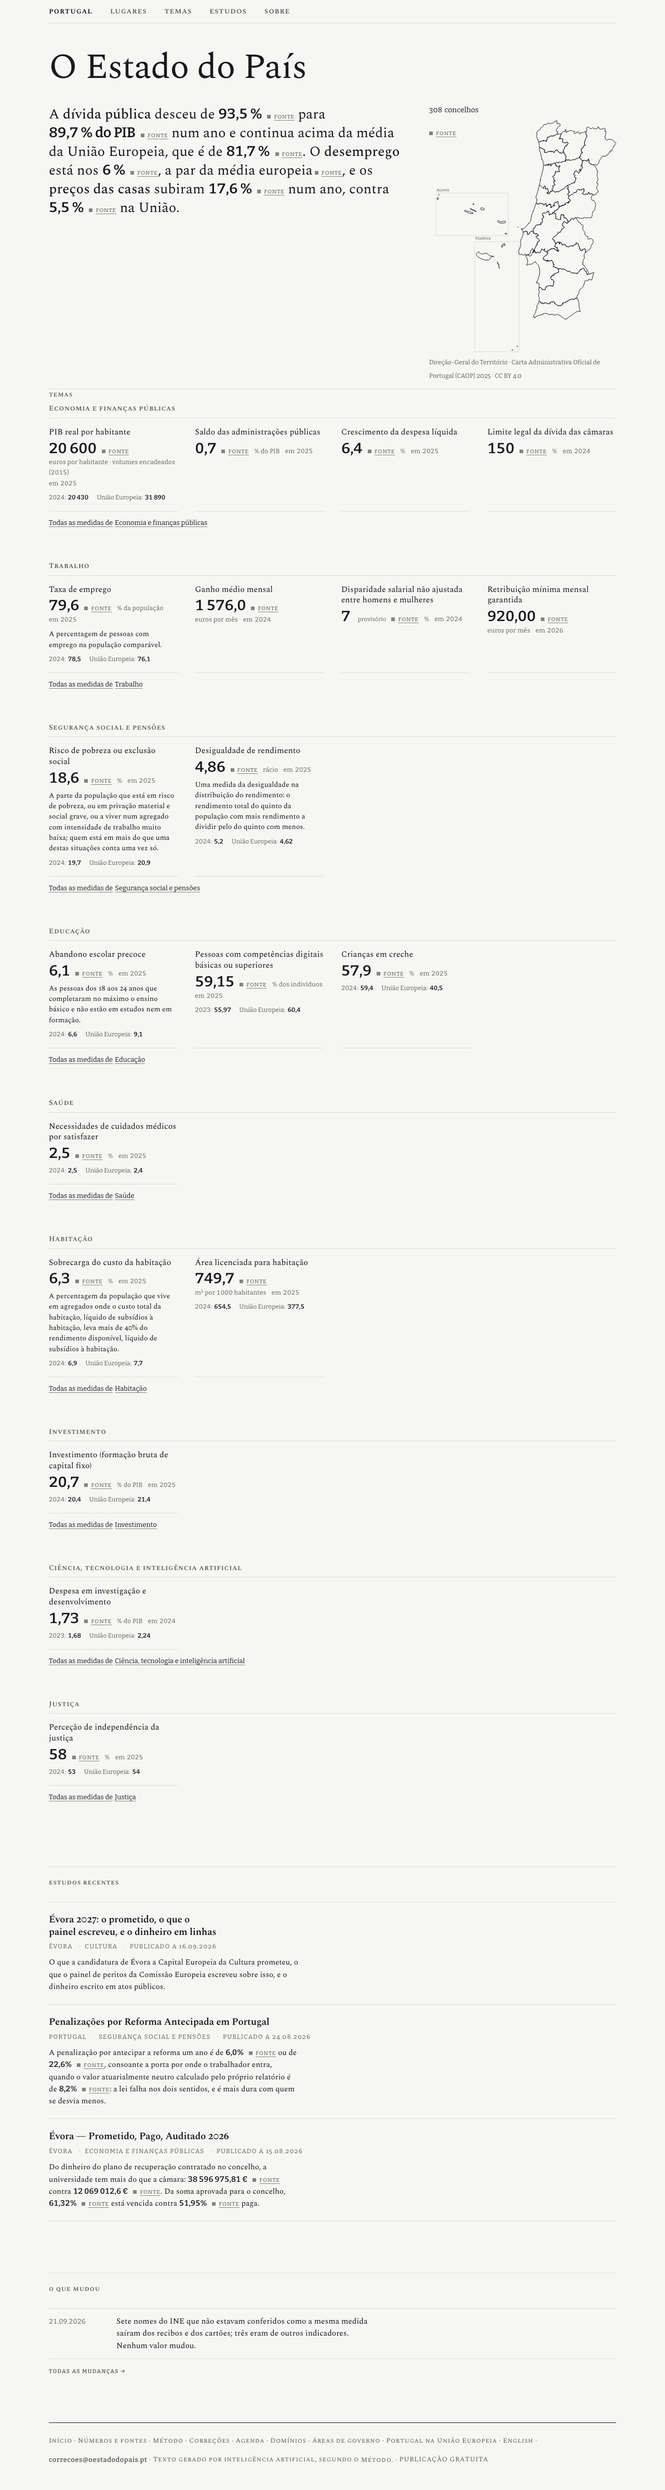
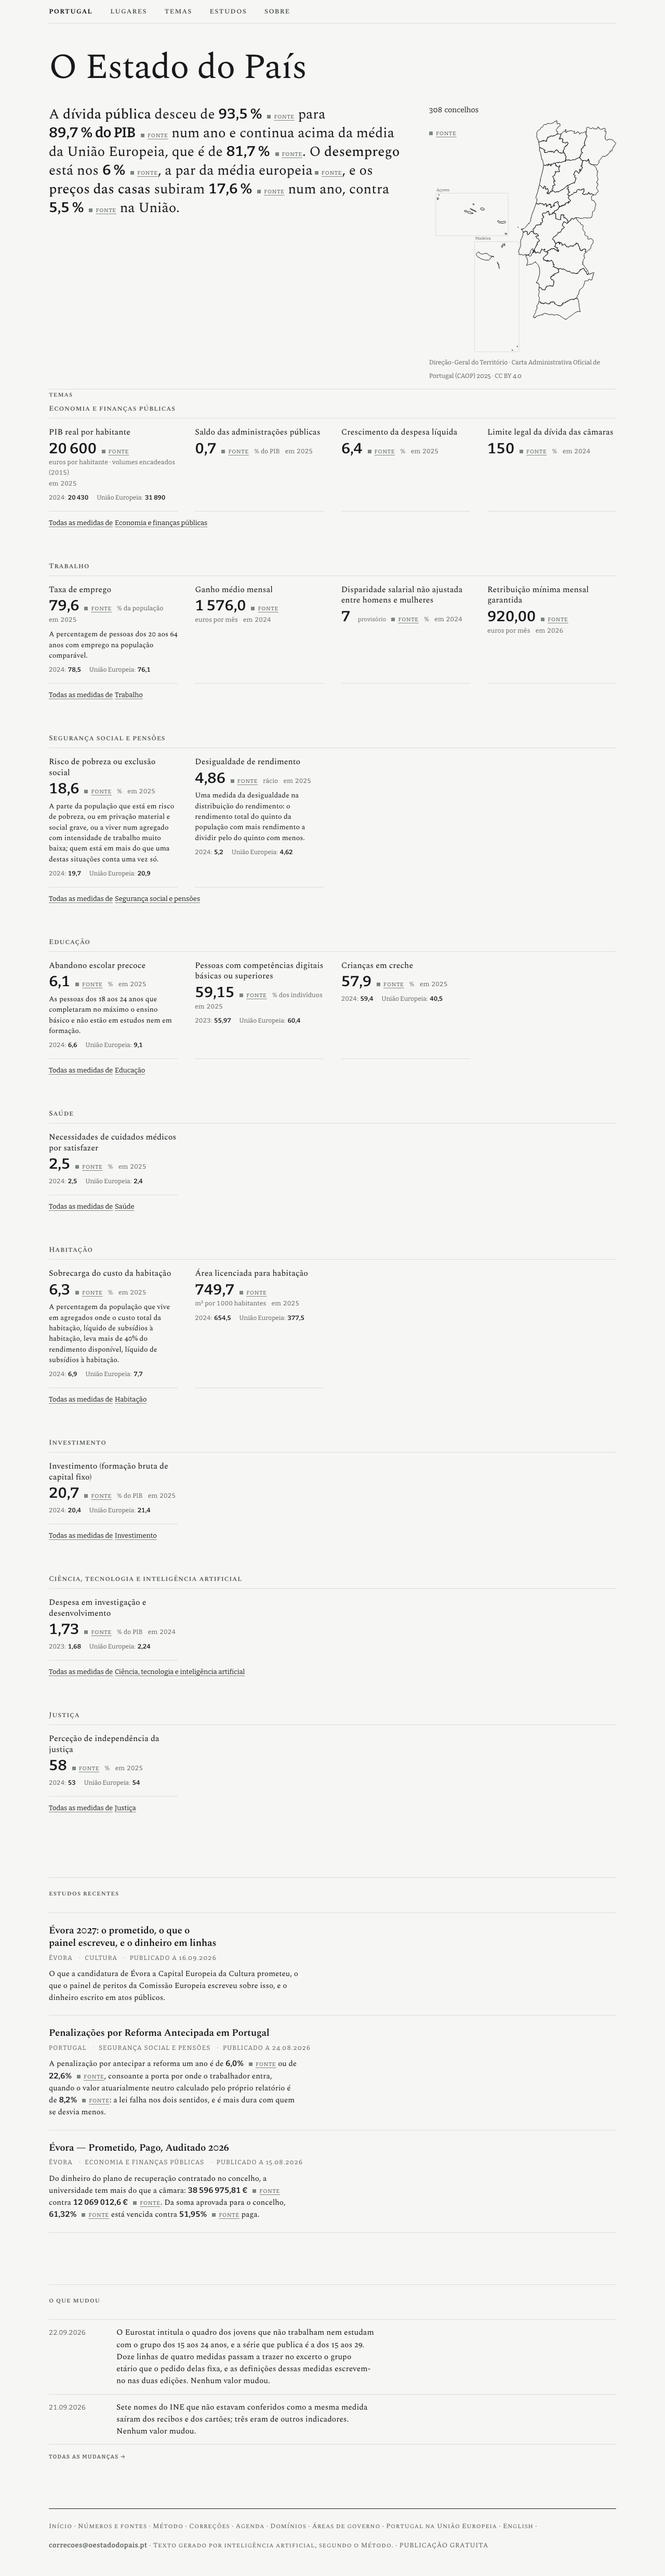
B1c: o relatório da marca em todas as páginas, o rebase e as capturas refeitas
A secção nova diz a decisão, o que mudou no componente e a medida que corrige a
expectativa: são 7 páginas e 11 marcas, todas inglesas, porque a marca é da
edição e não da cadeia, e sete das catorze páginas que rendem as duas cadeias
rendem a edição portuguesa, que está confirmada. A catraca L1 ficou em 2 271
antes e depois. O rebase sobre o `main` com a I129 teve um conflito, no rasto
da revisão do inventário, resolvido ficando com os dois lados por ordem de
data; a página do país passa a duas linhas e o registo a trinta e uma. As oito
capturas foram refeitas na cabeça rebaseada.

Claude-Session: https://claude.ai/code/session_016dojDrtR3Thizhpckp9ENd

diff --git a/design/especime-v3/medicoes/b1c-2026-09-22/LEIA-ME.md b/design/especime-v3/medicoes/b1c-2026-09-22/LEIA-ME.md
@@ -25,10 +25,10 @@ A medição de partida foi feita sobre `main` em `83e9df2d`, com `npm run build`
 | # | O que | A medida |
 | --- | --- | --- |
 | 1 | O âmbito das três listas numa função só, `src/lib/mudancas.mjs` | as três listas contadas em `dist/`, na tabela abaixo |
-| 2 | O teto de oito e a porta «Todas as mudanças» / «All changes» na página do país e nas de lugar | 1 linha na página do país e 8 em Évora, nas duas edições; uma porta por página |
+| 2 | O teto de oito e a porta «Todas as mudanças» / «All changes» na página do país e nas de lugar | 2 linhas na página do país e 8 em Évora, nas duas edições; uma porta por página |
 | 3 | O registo em `/correcoes` e `/en/corrections`, por data, com o lugar de cada linha e a sua porta | 30 linhas por edição, 30 portas de lugar; a norma, o canal e as revisões de proveniência intactos |
 | 4 | A definição do marcador uma vez por página | 1 por página, antes e depois |
-| 5 | As três células novas do `check:pais` com plantas | `plantas-b1c.json`, 24 provas |
+| 5 | As três células novas do `check:pais` com plantas | `plantas-b1c.json`, 26 provas, mais a da catraca L1 em `plantas-portoes-lugar-marcador-de-titulo.json` |
 | 6 | O inventário, as listas fechadas do `check:voz` e o mapa do repositório | `check:voz` a 0 |
 | 7 | Relatório, capturas e os três portões | este ficheiro, `capturas-b1c.json`, os `.codigo` |
 
@@ -39,6 +39,8 @@ A medição de partida foi feita sobre `main` em `83e9df2d`, com `npm run build`
 | País (`/`, `/en`) | 30 | 8 (1 mudança do projeto, 7 publicações) | **1** (a mudança do projeto de 21.09) |
 | Évora (`/municipios/evora`, `/en/municipalities/evora`) | 10 | 8 | **8** |
 | Registo (`/correcoes`, `/en/corrections`) | 16 linhas datadas | 30 | **30** (1 mudança do projeto, 13 publicações, 16 correções) |
+
+Depois do rebase sobre o `main` com a I129, que traz uma mudança declarada nova, os números do ramo são **2** na página do país, **8** em Évora e **31** no registo (2 mudanças do projeto, 13 publicações, 16 correções). A última secção diz o resto.
 
 As 16 correções do livro-razão inteiro, as 13 publicações do arquivo e a mudança declarada do projeto estão todas no registo, e a célula A3 fecha a construção se faltar ou sobrar uma. Nenhuma linha foi inventada e nenhuma foi apagada: o que saiu da primeira página está no registo, com a porta para o lugar a que pertence.
 
@@ -94,16 +96,16 @@ Oito, em [capturas/b1c-2026-09-22](../../capturas/b1c-2026-09-22/): a primeira p
 
 | Captura | Altura | Deslocamento lateral | Linhas | Portas de lugar |
 | --- | ---: | ---: | ---: | ---: |
-| `depois-pais-pt-390` | 6 197 px | 0 | 1 | — |
-| `depois-pais-pt-1280` | 4 791 px | 0 | 1 | — |
-| `depois-pais-en-390` | 6 250 px | 0 | 1 | — |
-| `depois-pais-en-1280` | 4 880 px | 0 | 1 | — |
-| `depois-registo-pt-390` | 9 966 px | 0 | 30 | 30 |
-| `depois-registo-pt-1280` | 9 375 px | 0 | 30 | 30 |
-| `depois-registo-en-390` | 10 061 px | 0 | 30 | 30 |
-| `depois-registo-en-1280` | 9 270 px | 0 | 30 | 30 |
+| `depois-pais-pt-390` | 6 411 px | 0 | 2 | — |
+| `depois-pais-pt-1280` | 4 955 px | 0 | 2 | — |
+| `depois-pais-en-390` | 6 465 px | 0 | 2 | — |
+| `depois-pais-en-1280` | 5 023 px | 0 | 2 | — |
+| `depois-registo-pt-390` | 10 028 px | 0 | 31 | 31 |
+| `depois-registo-pt-1280` | 9 537 px | 0 | 31 | 31 |
+| `depois-registo-en-390` | 10 170 px | 0 | 31 | 31 |
+| `depois-registo-en-1280` | 9 432 px | 0 | 31 | 31 |
 
-Zero deslocamentos laterais, nenhum valor ou selo partido, nenhum selo sem `nowrap`, a porta «Todas as mudanças» uma vez em cada página do país, e uma definição do marcador em cada página que tem marcador. As quatro da página do país foram refeitas na passagem da tarde; as quatro do registo são os mesmos bytes, conferidos por sha256 contra o manifesto anterior.
+Zero deslocamentos laterais, nenhum valor ou selo partido, nenhum selo sem `nowrap`, a porta «Todas as mudanças» uma vez em cada página do país, e uma definição do marcador em cada página que tem marcador. As oito foram refeitas na cabeça rebaseada, `59c27b5b`, e é essa que o manifesto nomeia.
 
 ## Os commits
 
@@ -158,6 +160,42 @@ A **A3** passa a conferir, linha a linha do registo, o lugar escrito e a porta d
 `npm run build` inteiro, **código 0**, e com ele o `check:pais` («todas as conferências a 0») e o `check:voz` (verde, 598 linhas vivas todas rendidas, 546 retiradas nenhuma rendida). As **24 plantas** de `tests/pais/pais.mjs`, todas a morder, com as três novas. E o `check:lugar` isolado, **código 0**, porque a marca nova é uma porta para `/a-verificar`: a catraca **L1 ficou em 2 271, o mesmo teto**, e a célula §7.10 da definição do marcador continua verde.
 
 **Os três portões inteiros não correram nesta cabeça**, e é por decisão do lugar de direção: o ramo vai ser rebaseado sobre o `main` depois de aterrar outro bloco, e é ele que os corre na cabeça final.
+
+## A marca em todas as páginas, e o rebase, 22.09.2026
+
+**A decisão do lugar de direção:** um título que o arquivo declara por confirmar leva a marca em todas as páginas onde se rende. Um leitor que a veja numa página e não noutra vê o projeto a dizer duas coisas sobre o mesmo facto.
+
+**O que mudou no componente.** A propriedade explícita saiu: quem chama já não pode esquecer a marca, porque já não é ele que decide. `TituloDeTrabalho` recebe a edição de quem a tem (`edicao=…`) e, de quem só tem a cadeia, resolve-a pela mesma escada que o resto do sítio usa — `edicaoDoTitulo()`, em `src/data/studies.mjs`: a edição da língua da página, e na falta dela a primeira do trabalho. Uma página que liste as duas edições do mesmo trabalho tem duas respostas para a mesma cadeia, e por isso passa a edição.
+
+**A medida, e uma correção à expectativa.** Esperavam-se as 14 páginas que eu tinha contado, mais o registo inglês. São **7 páginas e 11 marcas**, todas inglesas, e é o número certo: as 14 eram as páginas que rendem as duas CADEIAS, e sete delas são páginas portuguesas que rendem a edição PORTUGUESA, que está confirmada. A marca é da edição, não da cadeia.
+
+| Página | Marcas |
+| --- | ---: |
+| `en/studies/index` | 2 |
+| `en/studies/agua-nao-faturada` | 2 |
+| `en/studies/onde-esta-a-agua` | 2 |
+| `en/corrections` | 2 |
+| `en/ledger/agua-nao-faturada-portugal-2024` | 1 |
+| `en/ledger/ciclo-substituicao-condutas` | 1 |
+| `en/areas/ambiente-e-energia` | 1 |
+
+**A catraca L1 não se mexeu: 2 271 antes, 2 271 depois.** O desconto é o mesmo mecanismo que já descontava o marcador da definição conferida de um cartão — a classe `marcador-de-titulo` e o destino exato do marcador — e a planta prova que é ele que segura o teto: tiradas as classes das duas marcas do arquivo inglês, a catraca sobe acima do teto e o `check:lugar` fecha.
+
+**A A4** passou a correr sobre cada elemento que declara a edição que rende, em vez de só sobre o registo: os artigos das três listas de estudos (`[data-estudo][data-estudo-edicao]`) e as linhas de publicação do registo. Mede **56 títulos de edição** por construção, e exige a marca onde o arquivo a declara e em mais lado nenhum. As duas listas fechadas do `check:voz` passam a admitir a cadeia exacta do marcador, que é declarada em `src/data/marcador.mjs` e não é prosa da casa; qualquer outra prosa continua a fechar a construção.
+
+**As plantas novas:** o marcador retirado de uma publicação do registo (**A4**); uma edição que a primeira página rende declarada por confirmar sem a página a ter (**A4**); a marca retirada da lista dos estudos (**A4**); e a classe do desconto tirada às marcas do arquivo inglês (**L1 acima do teto**).
+
+### O rebase
+
+`git rebase main`, sobre `95655124` (o bloco I129). **Um conflito**, em `design/especime-v3/critica/REVISOES-DO-INVENTARIO.md`: os dois lados acrescentam uma secção no fim do ficheiro. Resolvido ficando com os dois, por ordem de data, com a I129 primeiro por ter aterrado primeiro. O `INVENTARIO-FRASES.md` e o `MAPA-DO-REPOSITORIO-para-construtores.md` fundiram-se sozinhos.
+
+**As contagens novas**, medidas em `dist/` nas duas edições: a página do país passa de 1 para **2** linhas, que são as duas mudanças declaradas do projeto (os nomes do INE, de 21.09, e o grupo etário dos jovens NEM, de 22.09); Évora fica nas mesmas **8**; o registo passa de 30 para **31**. A altura da página do país a 1 280 px passa de 4 791 para 4 955 px (en: de 4 880 para 5 023).
+
+### O que se correu nesta passagem, e só isto
+
+`npm run build` inteiro, **código 0**, na cabeça rebaseada (e com ele o `check:pais`, «todas as conferências a 0», e o `check:voz`, verde). As **26 plantas** de `tests/pais/pais.mjs`, todas a morder. O `check:lugar` isolado, **código 0**, com a L1 em 2 271. O `check:cartao --prova`, **código 0**, porque a I129 mexeu na célula K13 e nas figuras. E a planta da L1 em `tests/pais/portoes.mjs`, a morder.
+
+**Os três portões inteiros não correram nesta cabeça**, e a tabela da secção seguinte é de antes do rebase: as cabeças que ela nomeia já não existem neste ramo. É o lugar de direção que acrescenta os registos da sessão e corre os três na cabeça final.
 
 ## Conferência final
 
